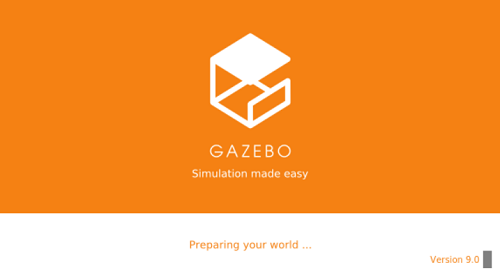
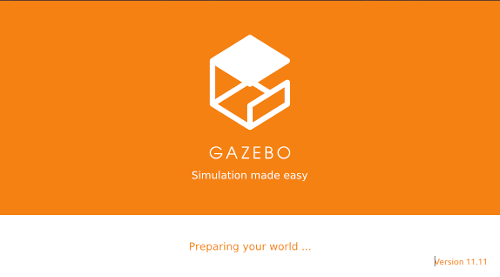
update assets and readme for 2023

diff --git a/README.md b/README.md
@@ -56,16 +56,16 @@
 
 # Gazebo
 
-A Gazebo egy önálló fizikai szimulációs környezet, nem a ROS része, azonban rengeteg csomag segíti az integrációját a ROS-hoz. Jelenleg a 11-es verziónál tart. Melyik verziót használjuk? Mivel az ajánlott konfiguráció Ubuntu 18.04 + ROS Melodic, így a Gazebo 9.0-val dolgozunk, de kisebb módosításokkal minden működhet Ubuntu 20.04 + ROS Noetic és Gazebo 11-gyel is.
+A Gazebo egy önálló fizikai szimulációs környezet, nem a ROS része, azonban rengeteg csomag segíti az integrációját a ROS-hoz. Jelenleg a 11-es verziónál tart, ez az utolsó Gazebo Classic kiadás, ami 2025-ig támogatott.
 
-| Ubuntu | ROS     | Gazebo |
-|--------|---------|--------|
-| 18.04  | Melodic | 9.0    |
-| 20.04  | Noetic  | 11.1   |
+| Ubuntu    | ROS         | Gazebo  |
+|-----------|-------------|---------|
+| ~~18.04~~ | ~~Melodic~~ | ~~9.0~~ |
+| 20.04     | Noetic      | 11.11   |
 
-Ha a `ros-melodic-desktop-full` csomagot telepítettétek, akkor a Gazebo már telepítve van.
+Ha a `ros-noetic-desktop-full` csomagot telepítettétek, akkor a Gazebo már telepítve van.
 
-Ha valamiért még sincs telepítve akkor a `sudo apt install gazebo9` vagy `gazebo11` paranccsal tudjátok telepíteni.  
+Ha valamiért még sincs telepítve akkor a `sudo apt install gazebo11`  paranccsal tudjátok telepíteni.  
 A Gazebo-t a `gazebo` paranccsal tudjuk elindítani. És a következő képernyővel indul:  
 ![alt text][image1]
 
@@ -77,23 +77,21 @@ VMware: vmw_ioctl_command error Invalid argument.
 
 Akkor be kell állítani az `export SVGA_VGPU10=0` környezeti változót. Érdemes betenni a `./bashrc` fájlba ebben az esetben.
 
-Gazebo 9 esetén még egy teendőnk van, a `~/.ignition/fuel/config.yaml` fájl szerkesztése, ha a Gazebo indulásakor a következő hibát látjátok:
-```console
-ros-user@ros-virtual-machine:~$ gazebo
-[Err] [REST.cc:205] Error in REST request
-
-libcurl: (51) SSL: no alternative certificate subject name matches target host name 'api.ignitionfuel.org'
-```
-Ebben az esetben a fenti fájlban a
-```yaml
-url: https://api.ignitionfuel.org
-```
-sort a
-```yaml
-url: https://api.ignitionrobotics.org
-```
--ra kell cserélni.
-
+>Gazebo 9 esetén még egy teendőnk van, a `~/.ignition/fuel/config.yaml` fájl szerkesztése, ha a Gazebo indulásakor a következő hibát látjátok:
+>```console
+>ros-user@ros-virtual-machine:~$ gazebo
+>[Err] [REST.cc:205] Error in REST request
+>
+>libcurl: (51) SSL: no alternative certificate subject name matches target host name 'api.ignitionfuel.org'
+>```
+>Ebben az esetben a fenti fájlban a
+>```yaml
+>url: https://api.ignitionfuel.org
+>```
+>sort a következőre kell cserélni:
+>```yaml
+>url: https://api.ignitionrobotics.org
+>```
 
 A `gazebo` parancs a `gzserver` és a `gzclient`-et foglalja össze. A `gzserver` a gazebo backendje, ez végzi a fizikai szimulációt, viszont nincs grafikus felülete. A `gzclient` adja a Gazebo grafikus felületét.
 
@@ -101,11 +99,11 @@ További hivatalos Gazebo tutorialok: [link](http://gazebosim.org/tutorials).
 
 ## Miért Gazebo?
 Miért használjuk a Gazebot a szimulációk során? Miért nem használunk például Unity-t vagy Unreal Engine-t?
-A kérdés jogos, és a legegyszerűbb válasz a ROS-hoz történő integrációjuk, ugyanis erre sokáig nem volt semmilyen egyszerű sztenderd megoldás. A Unity azonban 2020 végén jelentette be a hivatalos ROS támogatásukat:
+A kérdés jogos, és a legegyszerűbb válasz a ROS-hoz történő integrációjuk, ugyanis erre sokáig nem volt semmilyen egyszerű sztenderd megoldás. A Unity 2020 végén jelentette be a hivatalos ROS támogatásukat, de ez sem hozott jelentős változást:
 
 https://blogs.unity3d.com/2020/11/19/robotics-simulation-in-unity-is-as-easy-as-1-2-3/
 
-Ez a jövőben megváltoztathatja azt, hogy mi a legelterjedtebb szimulációs eszköz ROS esetén. Rövid távon viszont egyelőre nem jelent nagy változást, mert a Unity a PhysX game engine-t használja a fizikai szimulációkra, ami ugyan látványos és könnyen kezelhető, de robotok fizikai szimulációjára egyelőre nem alkalmas. A Gazebo emellett nyílt forrású, és a szintén nyílt forrás ODE fizikai engine mellett napjaink több másik kedvelt fizikai engine-jével is lehet használni pl. DART és Bullet!
+A Unity a PhysX game engine-t használja a fizikai szimulációkra, ami ugyan látványos és könnyen kezelhető, de robotok fizikai szimulációjára egyelőre nem alkalmas. A Gazebo emellett nyílt forrású, és a szintén nyílt forrású ODE fizikai engine mellett napjaink több másik kedvelt fizikai engine-jével is lehet használni pl. DART és Bullet!
 
 A fizikai engine-ek összehasonlításáról részletes leírást találtok az `assets` mappán belül a `Simulation of Mobile Robots with Unity.pdf` és a `Comparison of Bullet, Havok, MuJoCo, ODE and PhysX.pdf` fájlokban.
 
@@ -906,7 +904,7 @@ Ha a robot odometria transzformációját fix időpillanatonként rögzítenénk
 
 Ez egy olyan csomag, ami nem része az alap ROS telepítésnek, de az Ubuntu csomagkezelőjével gond nélkül telepíthetjük:
 ```console
-sudo apt install ros-melodic-hector-trajectory-server
+sudo apt install ros-noetic-hector-trajectory-server
 ```
 
 Telepítés után, adjuk hozzá a `spawn_robot.launch` fájlunkhoz a trajektória mentését a `hector_trajectory_server` node hozzáadásával. A node használatához 2 dolgot kell beállítanunk, a két koordinátarendszert, amik között a transzformációt rögzíteni szeretnénk.
@@ -983,6 +981,9 @@ Az URDF fájlokban Collada (.dae) vagy STL fájlokat lehet meshként használni.
 Sajnos a CAD szoftverek nem exportálnak Collada formátumba, ezért ezek előállítására a Blendert javaslom.
 
 Ha CAD SW-ből exportáltok STL-t, amit aztán Blenderrel alakítotok át Collada mesh-sé, akkor javaslom, hogy minden méretezést és forgatást Blenderben csináljatok meg, ahogy a színezést is.
+
+>Itt láthattok egy korábbi konzultációs videót a Blender használatáról:
+><a href="https://youtu.be/K5v3cWsks8w"><img height="300" src="./assets/blender-yt.png"></a>
 
 ![alt text][image31]
 
